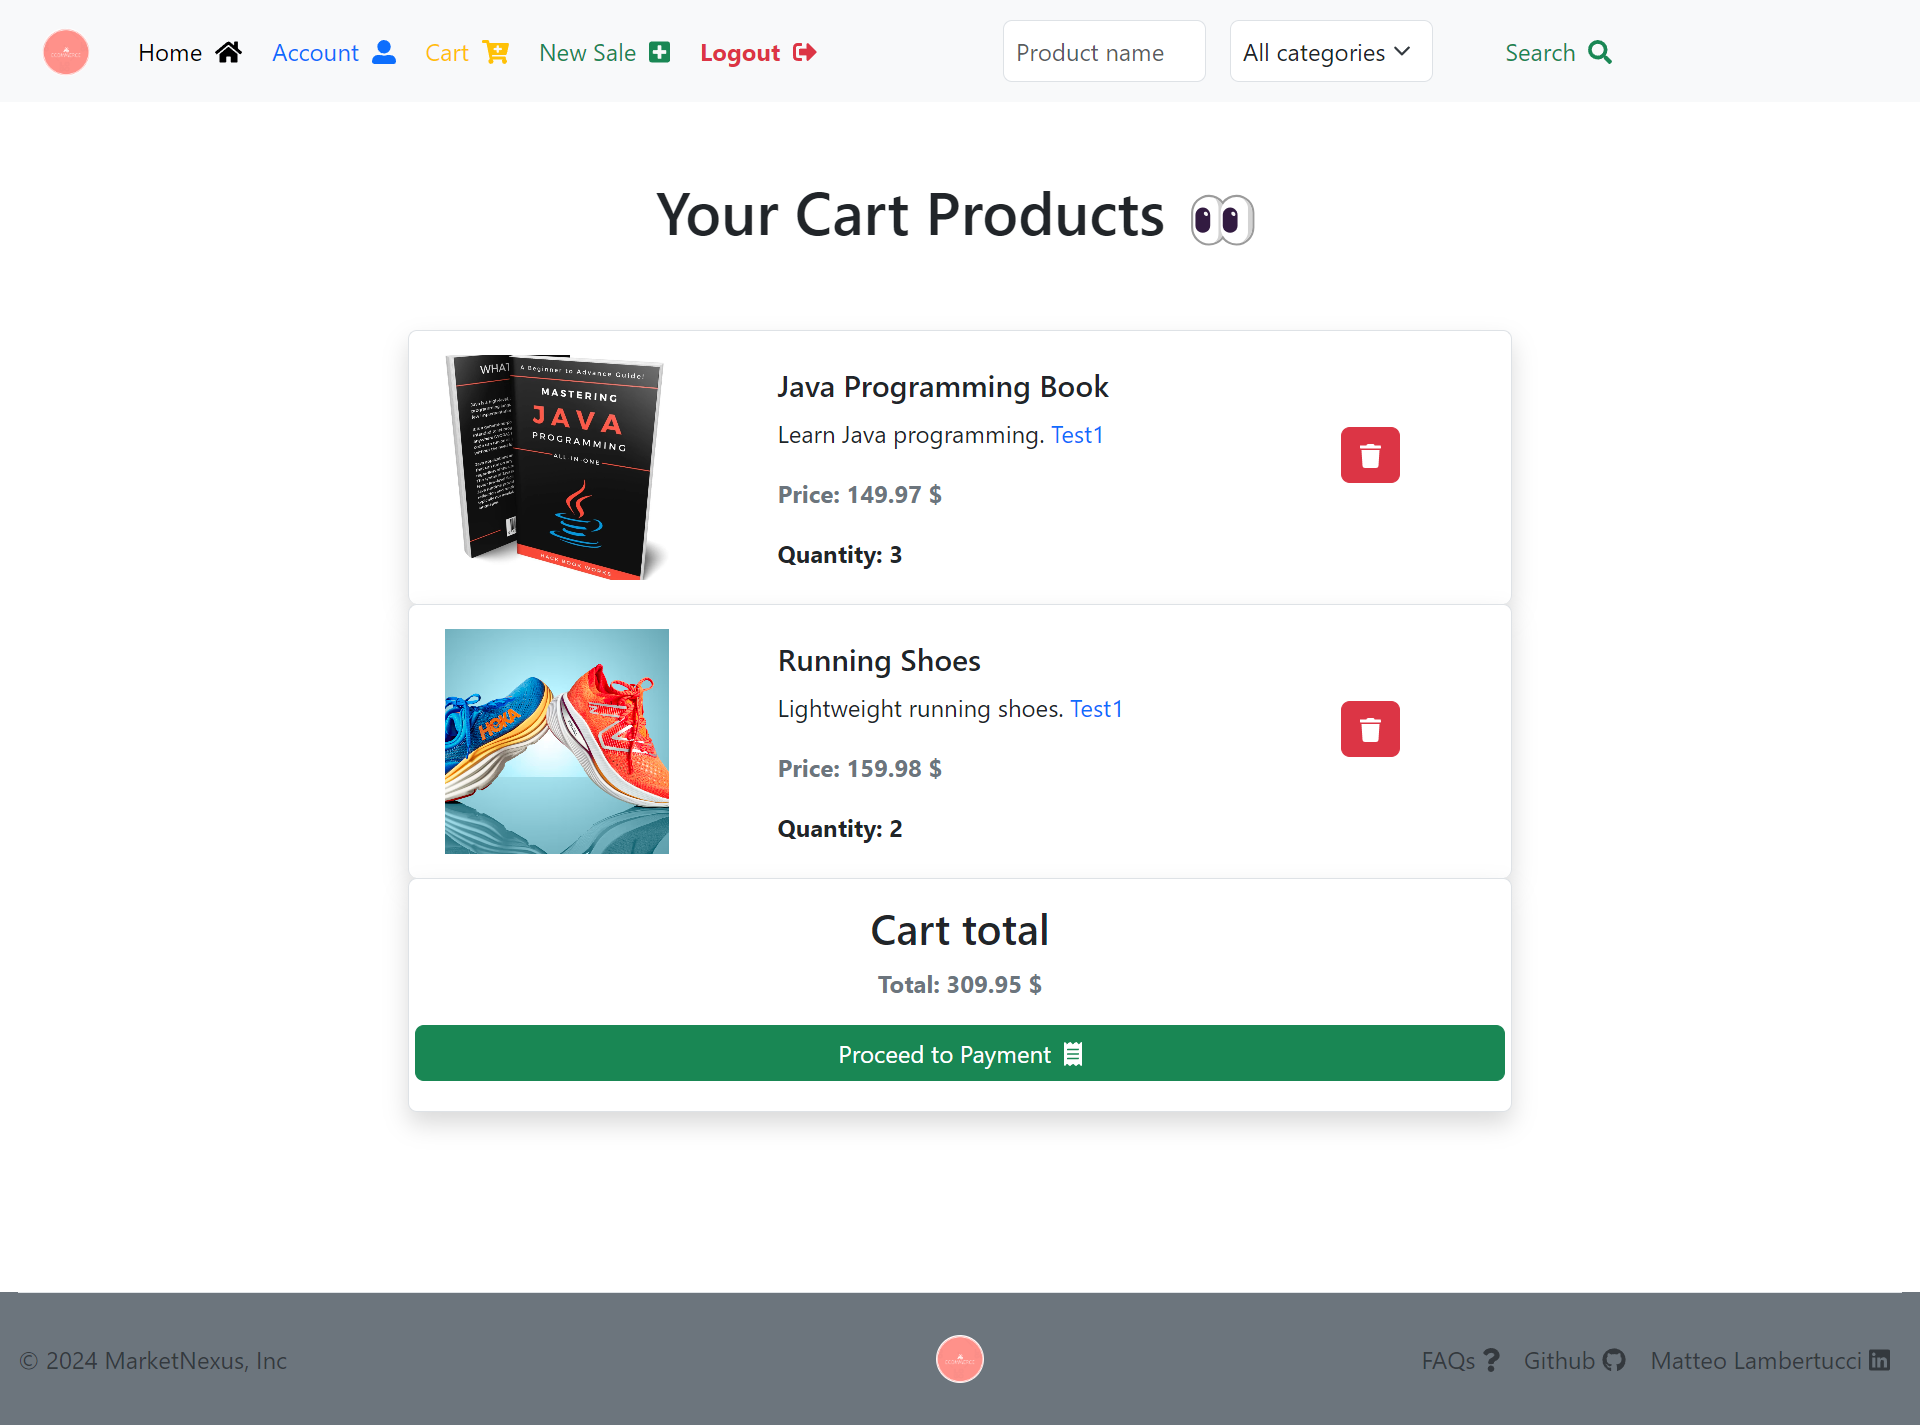
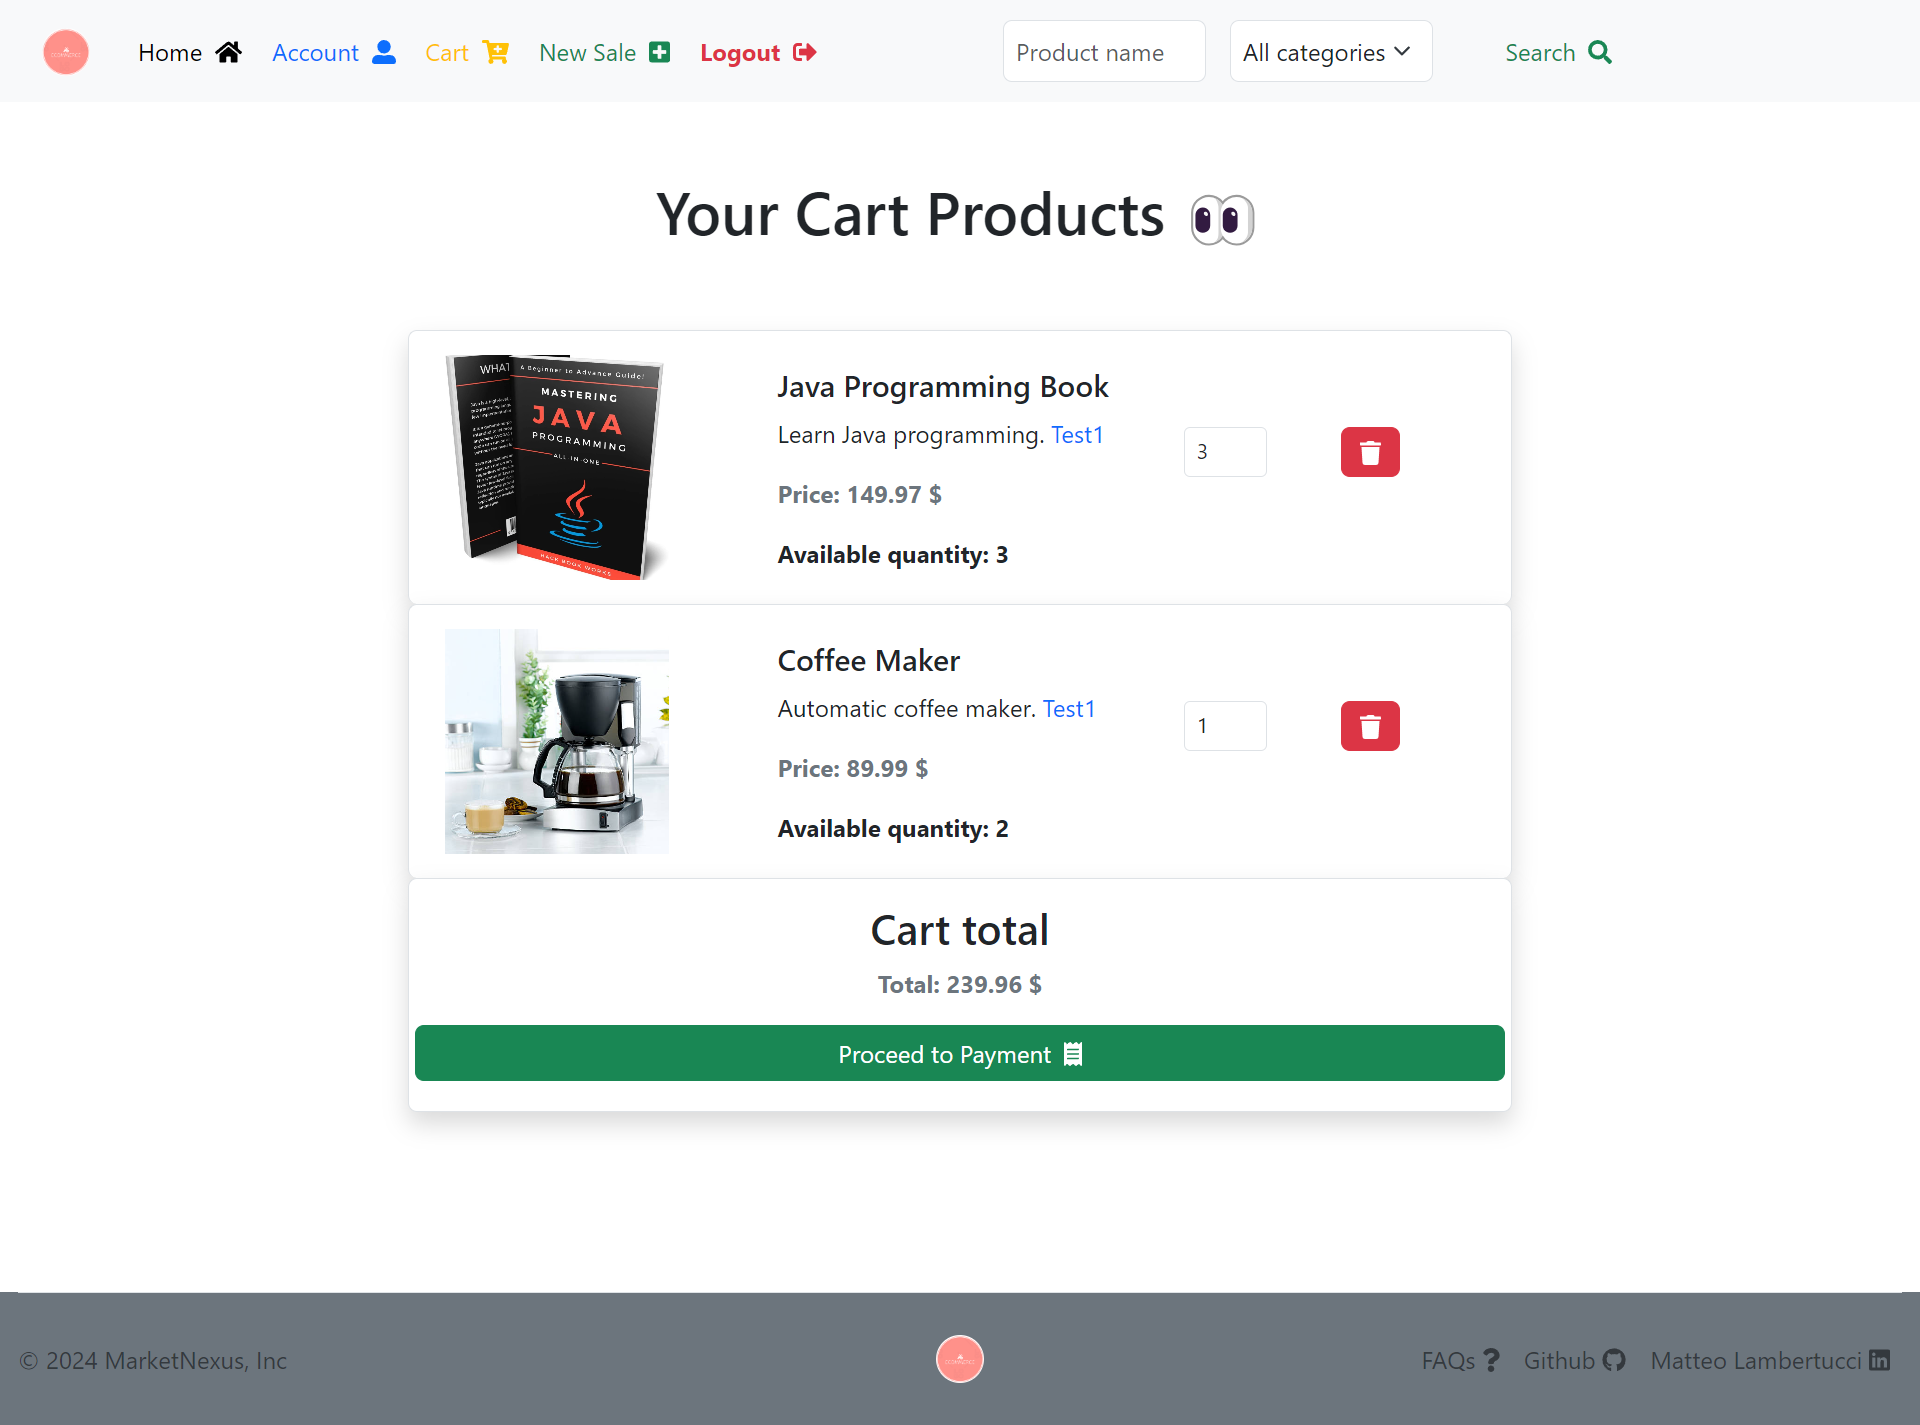
updated README.md

diff --git a/src/main/resources/templates/registration.html b/src/main/resources/templates/registration.html
@@ -17,7 +17,6 @@
                </div>
                <form id="registration-form" method="POST" name="registration-form"
                      th:action="@{/registerNewUser}">
-                  
                   <div
                         th:replace="~{fragments/shared/message/error/errorMessage.html :: errorMessage(text = ${userNotRegisteredError}, condition = ${userNotRegisteredError != null})}"></div>
                   <div class="mb-3">
@@ -66,7 +65,6 @@
                             type="number"/>
                      <div
                            th:replace="~{fragments/shared/message/error/fieldErrorMessage.html :: fieldErrorMessage(field = 'user.balance')}"></div>
-                  
                   </div>
                   <div class="mb-3">
                      <label class="form-label" for="email">Email:</label>
@@ -78,7 +76,6 @@
                      <div
                            th:replace="~{fragments/shared/message/error/fieldErrorMessage.html :: fieldErrorMessage(field = 'user.email')}"></div>
                   </div>
-                  
                   <div class="mb-3">
                      <label class="form-label" for="username">Username:</label>
                      <input class="form-control py-2" id="username" name="username"
@@ -91,7 +88,6 @@
                      <div
                            th:replace="~{fragments/shared/message/error/fieldErrorMessage.html :: fieldErrorMessage(field = 'credentials.username')}"></div>
                   </div>
-                  
                   <div class="mb-3">
                      <label class="form-label" for="password">Password:</label>
                      <div class="input-group">
@@ -158,11 +154,12 @@
                         Register
                         <i class="fas fa-registered mx-1"></i>
                      </button>
+                     <a th:replace="~{fragments/shared/googleLoginButton.html :: googleLoginButton()}"></a>
                   </div>
                </form>
                <div class="col-12">
                   <div class="row text-center" id="registration-footer">
-                     <p>
+                     <p class="mt-1">
                         <a class="text-decoration-none mx-4" th:href="@{/}"
                            th:title="'Go to ' + ${GLOBAL_CONSTANTS_MAP.get('APP_NAME')} + ' home'">Home</a>
                         <a class="text-decoration-none mx-4" th:href="@{/login}"

diff --git a/src/main/resources/templates/fragments/shared/sale.html b/src/main/resources/templates/fragments/shared/sale.html
@@ -37,7 +37,7 @@
       <a class="btn btn-primary ms-3 mb-2" data-bs-toggle="tooltip"
          role="button"
          th:href="@{'/' + ${API_PREFIXES_MAP.get('CART')} + '/' + ${sale.id}}"
-         th:if="${loggedUser != null && #strings.contains(loggedUser.credentials.role, 'BUYER') && !isLoggedUser && !sale.isSold && !isAddedToCart}"
+         th:if="${loggedUser != null && #strings.contains(loggedUser.credentials.role, 'BUYER') && !isLoggedUser && sale.quantity > 0 && !isAddedToCart}"
          th:title="'Add this ' + ${sale.user.credentials.username} + ' ' + ${sale.product.name} + ' to your ' + ${GLOBAL_CONSTANTS_MAP.get('APP_NAME')} + ' cart'"
       >
          <i class="fas fa-cart-plus"></i>
@@ -45,12 +45,12 @@
       <a class="btn btn-warning ms-3 mb-2" data-bs-toggle="tooltip"
          role="button"
          th:href="@{'/' + ${API_PREFIXES_MAP.get('DASHBOARD')} + '/updateSale/' + ${sale.id}}"
-         th:if="${!sale.isSold && loggedUser != null && isLoggedUser && sale.user == loggedUser}"
+         th:if="${sale.quantity > 0 && loggedUser != null && isLoggedUser && sale.user == loggedUser}"
          title="Modify this Sale.">
          <i class="fas fa-edit"></i>
       </a>
       <span data-bs-toggle="tooltip"
-            th:if="${!sale.isSold && loggedUser != null && isLoggedUser && isAccountPage && sale.user == loggedUser}"
+            th:if="${sale.quantity > 0 && loggedUser != null && isLoggedUser && isAccountPage && sale.user == loggedUser}"
             title="Delete this Sale.">
           <button class="btn btn-danger ms-2 mb-2" data-bs-toggle="modal"
                   th:data-bs-target="'#confirm-delete-sale-modal-' + ${sale.id}"

diff --git a/src/main/resources/templates/fragments/dashboard/cart/cartLineInformation.html b/src/main/resources/templates/fragments/dashboard/cart/cartLineInformation.html
@@ -23,11 +23,12 @@
                      </span>
                      <a th:href="@{${'/' + API_PREFIXES_MAP.get('ACCOUNT') + '/' + cartLineItem.sale.user.credentials.username}}"
                         th:text="${cartLineItem.sale.user.credentials.username}"
-                        th:title="'The ' + ${GLOBAL_CONSTANTS_MAP.get('APP_NAME')} + ' User who made the Sale.'"></a>
+                        th:title="'The ' + ${GLOBAL_CONSTANTS_MAP.get('APP_NAME')} + ' User who published the Sale.'"></a>
                   </p>
                   <p class="card-text text-secondary fw-bold"
                      th:text="'Price: ' + ${cartLineItem.cartLineItemPrice} + ' $'"></p>
-                  <p class="card-text fw-bold" th:text="'Available quantity : ' + ${cartLineItem.sale.quantity}"></p>
+                  <p class="card-text fw-bold"
+                     th:text="${isOrder ? 'Quantity' : 'Available quantity'} + ': ' + ${isOrder ? cartLineItem.quantity : cartLineItem.sale.quantity}"></p>
                </div>
             </div>
             <div class="col-2" th:if="${!isOrder}">

diff --git a/src/main/resources/static/css/shared/style.css b/src/main/resources/static/css/shared/style.css
@@ -32,7 +32,6 @@
    }
 }
 
-/* CSS personalizzato */
 .tooltip {
    color: #FFFFFF;
 !important /* Cambia il colore del testo */
@@ -53,5 +52,38 @@ font-size: 16 px;
 !important /* Aggiungi spaziatura interna */
 }
 
-/* tooltip bs-tooltip-auto fade show tooltip-arrow tooltip-inner */
+.btn-google {
+   display: flex;
+   align-items: center;
+   justify-content: center;
+   background-color: #FFFFFF;
+   color: #757575;
+   border: 1px solid #DCDCDC;
+   border-radius: 0.375rem;
+   padding: 0.5rem 0.75rem;
+   font-size: 1rem;
+   font-weight: 500;
+   text-decoration: none;
+   box-shadow: 0 2px 4px 0 #00000019;
+}
+
+.btn-google:hover {
+   background-color: #F5F5F5;
+   color: #757575;
+   text-decoration: none;
+}
+
+.btn-google .google-icon-wrapper {
+   background-color: #FFFFFF;
+   display: inline-flex;
+   align-items: center;
+   justify-content: center;
+   margin-right: 0.3rem;
+   padding-right: 0.3rem;
+}
+
+.btn-google .google-icon-wrapper img {
+   width: 18px;
+   height: 18px;
+}
 

diff --git a/src/main/resources/static/css/login/style.css b/src/main/resources/static/css/login/style.css
@@ -2,38 +2,3 @@
    font-size: 1.12em;
 !important;
 }
-
-.btn-google {
-   display: flex;
-   align-items: center;
-   justify-content: center;
-   background-color: #FFFFFF;
-   color: #757575;
-   border: 1px solid #DCDCDC;
-   border-radius: 0.375rem;
-   padding: 0.5rem 0.75rem;
-   font-size: 1rem;
-   font-weight: 500;
-   text-decoration: none;
-   box-shadow: 0 2px 4px 0 #00000019;
-}
-
-.btn-google:hover {
-   background-color: #F5F5F5;
-   color: #757575;
-   text-decoration: none;
-}
-
-.btn-google .google-icon-wrapper {
-   background-color: #FFFFFF;
-   display: inline-flex;
-   align-items: center;
-   justify-content: center;
-   margin-right: 0.3rem;
-   padding-right: 0.3rem;
-}
-
-.btn-google .google-icon-wrapper img {
-   width: 18px;
-   height: 18px;
-}

diff --git a/src/main/resources/static/css/dashboard/shared/style.css b/src/main/resources/static/css/dashboard/shared/style.css
@@ -2,3 +2,4 @@ a {
    text-decoration: none;
 !important
 }
+

diff --git a/README.md b/README.md
@@ -4,7 +4,7 @@
 <img  title="MarketNexus Logo"  alt="MarketNexus Logo"  width="19.5%"  src="/src/main/resources/static/images/logo/logo.png"/>
 </p>
 
-MarketNexus is marketplace made in Spring boot.
+MarketNexus is marketplace made in Spring boot where Users can sell and buy from different categories.
 
 #### P.S. = Go to Releases section and download the JAR (latest release).
 
@@ -14,18 +14,21 @@ MarketNexus is marketplace made in Spring boot.
 
 ## ER Model 🔢
 
-<img title="MarketNexus ER model" alt="MarketNexus ER model" src="https://matteolambertucci.altervista.org/MarketNexus/planning/ER_model3.jpeg" width="100%" />
+<img title="MarketNexus ER model" alt="MarketNexus ER model" src="/src/main/resources/static/images/README/design/ER.png" width="100%" />
 
 ## Key Features ✨
 
-- **Usage:** Users can publish their products, put product in their cart, buy other products, search products of a
+- **Usage:** Users can publish their products, put product in their cart (set the quantity), buy other products,
+  search products of a
   wide range of categories and more.
 
 - **Responsive:** The site is responsive and user-friendly. There are also dynamic contents and special effects.
 
 - **Security and user errors control:** The user's sensitive data, such as their password, are encrypted and stored in a
-  very robust database. There are also errors control in in client-side and server-side and it is possible to sign in
-  with your google account.
+  very robust database. There are also errors control in in client-side and server-side (also CHECKS and TRIGGERS in the
+  Database) and it is possible to sign in
+  with your google account. Furthermore, sensitive data present in the configuration files has been hidden via
+  environment variables.
 
 - **Tested:** The project is tested with Junit tests.
 
@@ -151,6 +154,9 @@ mvnw package
 java -jar target/MarketNexus-0.0.1-SNAPSHOT.jar
 ```
 
+P.S. = Remember to create and populate the Postgres Database by running the script contained in the root folder of the
+project.
+
 ## Some code examples 🤖
 
 ### `MarketNexusApplication.java` -> `com.market.marketnexus.MarketNexusApplication`
@@ -191,6 +197,7 @@ import org.springframework.security.authentication.AuthenticationManager;
 import org.springframework.security.config.annotation.authentication.builders.AuthenticationManagerBuilder;
 import org.springframework.security.config.annotation.authentication.configuration.AuthenticationConfiguration;
 import org.springframework.security.config.annotation.web.builders.HttpSecurity;
+import org.springframework.security.config.annotation.web.configuration.EnableWebSecurity;
 import org.springframework.security.config.annotation.web.configurers.AbstractHttpConfigurer;
 import org.springframework.security.crypto.bcrypt.BCryptPasswordEncoder;
 import org.springframework.security.crypto.password.PasswordEncoder;
@@ -203,7 +210,7 @@ import org.springframework.web.servlet.config.annotation.WebMvcConfigurer;
 import javax.sql.DataSource;
 
 @Configuration
-//@EnableWebMvc
+@EnableWebSecurity
 public class AuthConfiguration implements WebMvcConfigurer {
 
    private static final String[] CLASSPATH_RESOURCE_LOCATIONS = {"classpath:" + ProjectPaths.STATIC + "/"};
@@ -249,7 +256,7 @@ public class AuthConfiguration implements WebMvcConfigurer {
                       authorizeHttpRequestsCustomizer -> authorizeHttpRequestsCustomizer
                               .requestMatchers(HttpMethod.GET, "/", "/registration", "/login", "/forgotUsername", "/logout", "/FAQs", "/css/**", "/js/**", "/images/**").permitAll()
                               .requestMatchers(HttpMethod.POST, "/registerNewUser", "/sendForgotUsernameEmail").permitAll()
-                              .requestMatchers(new RegexRequestMatcher(".*Sale.*", null)).hasAnyAuthority(Roles.SELLER_AND_BUYER.toString(), Roles.SELLER.toString())
+                              .requestMatchers(new RegexRequestMatcher(".*newSale.*", null)).hasAnyAuthority(Roles.SELLER_AND_BUYER.toString(), Roles.SELLER.toString())
                               .requestMatchers(new RegexRequestMatcher(".*cart.*", null)).hasAnyAuthority(Roles.SELLER_AND_BUYER.toString(), Roles.BUYER.toString())
                               .requestMatchers(new RegexRequestMatcher(".*order.*", null)).hasAnyAuthority(Roles.SELLER_AND_BUYER.toString(), Roles.BUYER.toString())
                               .requestMatchers(HttpMethod.DELETE).denyAll()
@@ -259,11 +266,18 @@ public class AuthConfiguration implements WebMvcConfigurer {
               )
               .formLogin(formLogin -> formLogin
                       .loginPage("/login")
-                      .defaultSuccessUrl("/dashboard", true)
+                      .defaultSuccessUrl("/" + APIPrefixes.DASHBOARD, true)
                       .failureUrl("/login?invalidCredentials=true")
                       .usernameParameter("username")
                       .passwordParameter("password")
                       .permitAll()
+              )
+              .oauth2Login(oauth2Login ->
+                      oauth2Login
+                              .loginPage("/oauth2/authorization/google")
+                              .defaultSuccessUrl("/" + APIPrefixes.DASHBOARD, true)
+                              .failureUrl("/login?invalidCredentials=true")
+                              .permitAll()
               )
               .logout(logout -> logout
                       .logoutUrl("/logout")
@@ -809,6 +823,61 @@ public class SaleNotFoundException extends RuntimeException {
    img.card-img-top {
       height: 18rem;
    }
+}
+
+.tooltip {
+   color: #FFFFFF;
+!important /* Cambia il colore del testo */
+border-radius: 10 px;
+!important /* Arrotonda i bordi */
+box-shadow: 0 0 10 px rgba(0, 0, 0, 0.5);
+!important /* Aggiungi ombreggiatura */
+font-size: 16 px;
+!important /* Cambia la dimensione del testo */
+}
+
+.tooltip .tooltip-arrow {
+
+}
+
+.tooltip-inner {
+   padding: 10px 13px;
+!important /* Aggiungi spaziatura interna */
+}
+
+.btn-google {
+   display: flex;
+   align-items: center;
+   justify-content: center;
+   background-color: #FFFFFF;
+   color: #757575;
+   border: 1px solid #DCDCDC;
+   border-radius: 0.375rem;
+   padding: 0.5rem 0.75rem;
+   font-size: 1rem;
+   font-weight: 500;
+   text-decoration: none;
+   box-shadow: 0 2px 4px 0 #00000019;
+}
+
+.btn-google:hover {
+   background-color: #F5F5F5;
+   color: #757575;
+   text-decoration: none;
+}
+
+.btn-google .google-icon-wrapper {
+   background-color: #FFFFFF;
+   display: inline-flex;
+   align-items: center;
+   justify-content: center;
+   margin-right: 0.3rem;
+   padding-right: 0.3rem;
+}
+
+.btn-google .google-icon-wrapper img {
+   width: 18px;
+   height: 18px;
 }
 ```
 
